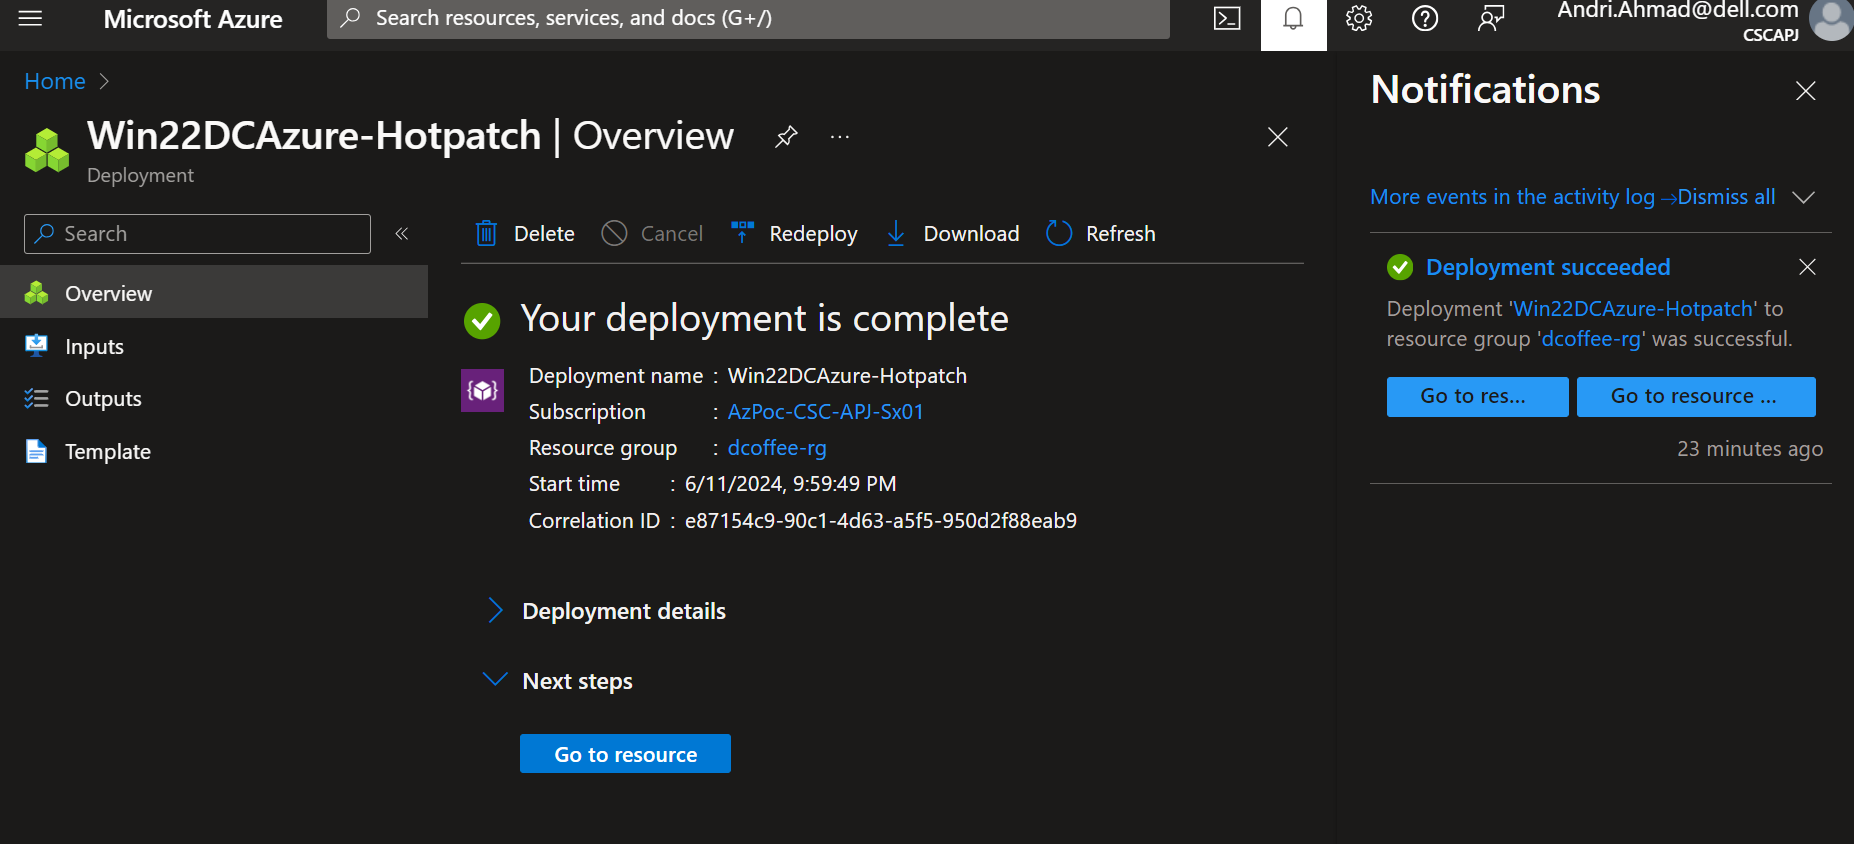
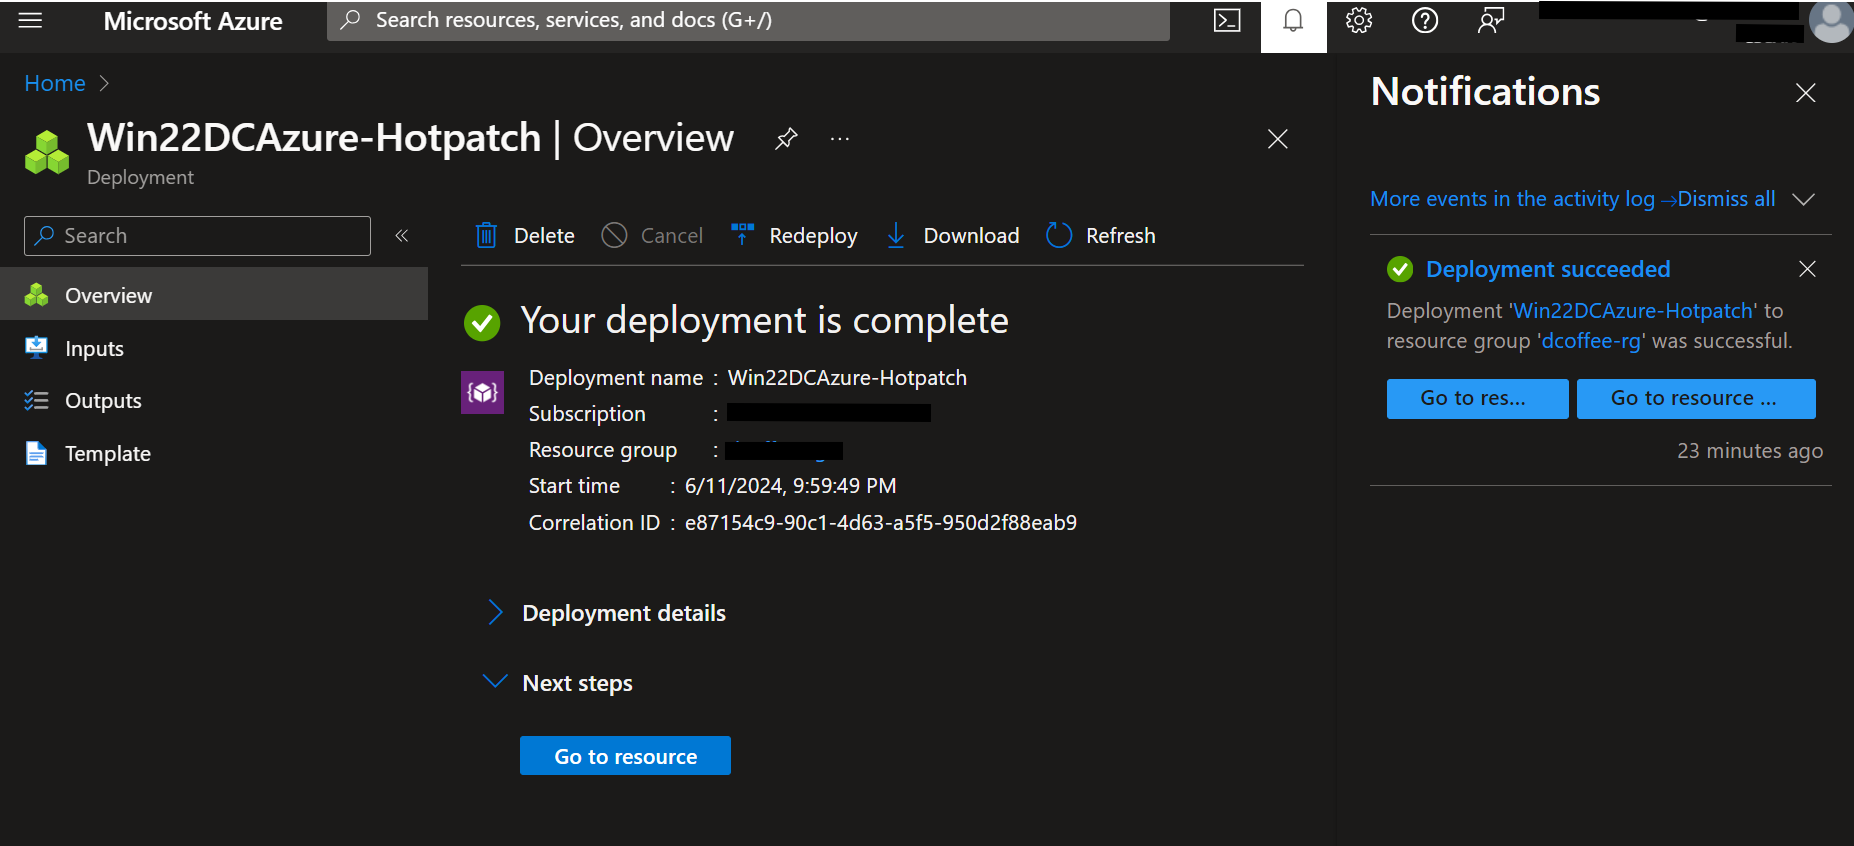
fix sensitive information

diff --git a/05-AzArcVM-Management/README.md b/05-AzArcVM-Management/README.md
@@ -25,10 +25,10 @@ Use the following options:
 ```
 Basics:
     Subscription:       <use-your-subscription>
-    Resource Group:     dcoffee-rg
+    Resource Group:     <use-your-resource-group>
     
     Save image as:      MarketPlaceWin22DCAzure-Hotpatch
-    Custom Location:    dcoffee-clus03-cl
+    Custom Location:    <use-your-custom-location>
     Storage path:       Choose Automatically
 
 Tags:
@@ -204,8 +204,8 @@ $ClusterName="clus01"
 $ClusterNodes=(Get-ClusterNode -Cluster $ClusterName).Name
 $VirtualSwitchName=(Get-VMSwitch -CimSession $ClusterNodes[0]).Name
 $Location="EastUS"
-$ResourceGroupName="dcoffee-rg"
-$CustomLocationName="dcoffee-clus01-cl"
+$ResourceGroupName=""
+$CustomLocationName=""
 $CustomLocationID=(Get-AzCustomLocation -ResourceGroupName $ResourceGroupName -Name $CustomLocationName).ID
 
 # define networks manually
